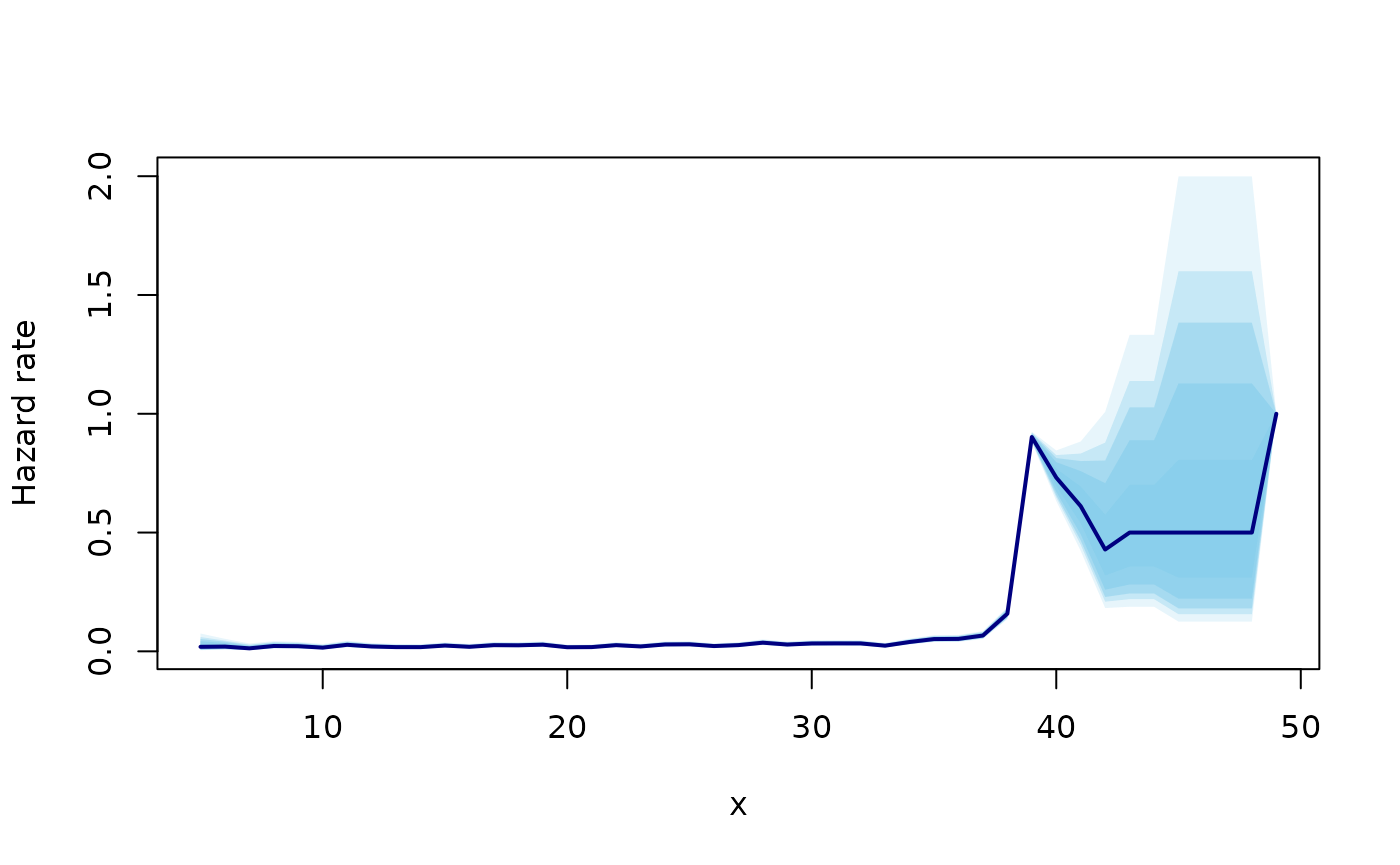
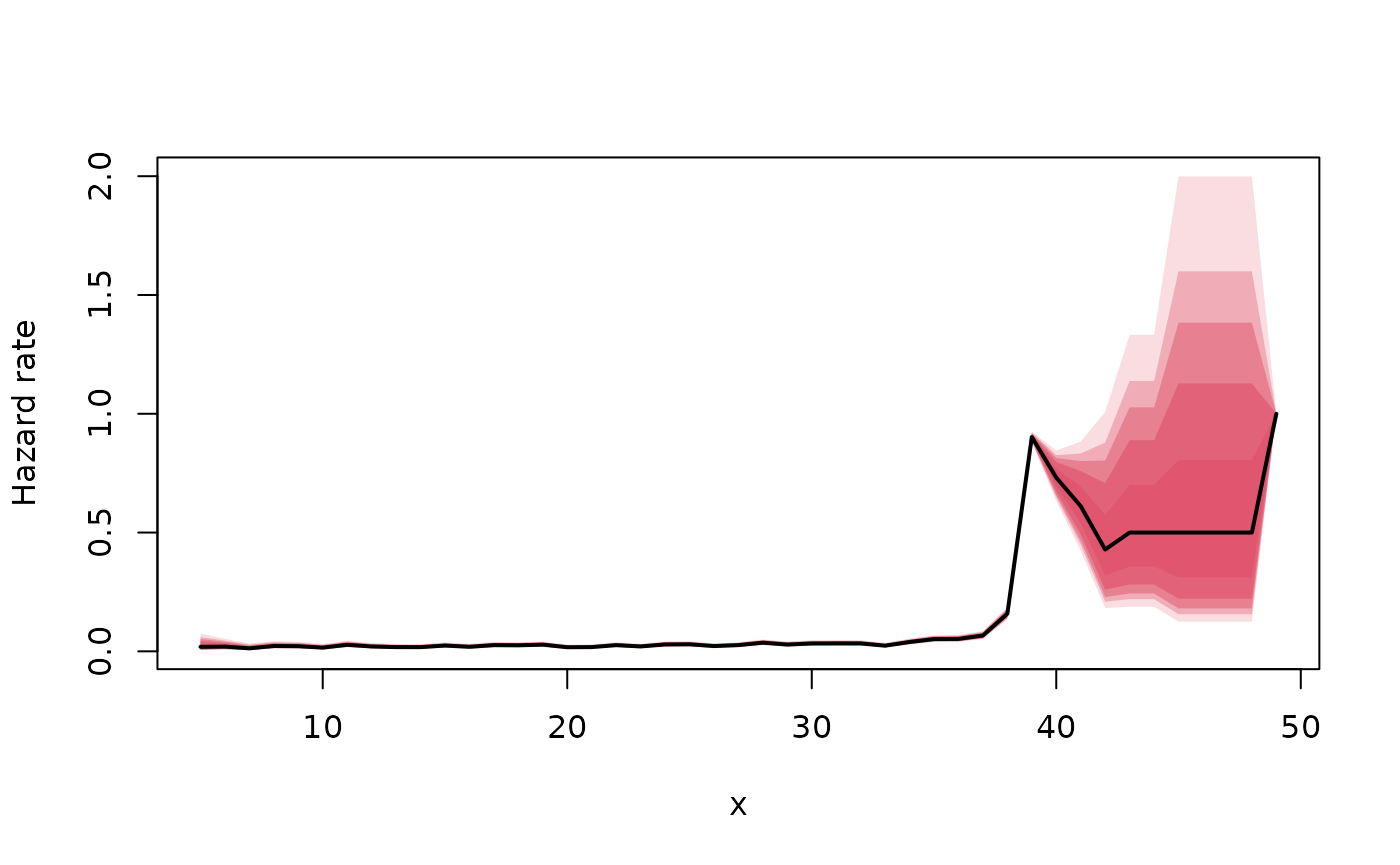
Deploying to gh-pages from @ lcgodoy/abslife@4cb8d97936ba4687f2455f60bfd2453b908d7cde 🚀

Changed region(s): [[0.7064, 0.1873, 0.9214, 0.7179], [0.1229, 0.7179, 0.7064, 0.7491]]

diff --git a/news/index.html b/news/index.html
@@ -43,7 +43,7 @@
 
     <div class="section level2">
 <h2 class="pkg-version" data-toc-text="0.0.95" id="abslife-0095">abslife 0.0.95<a class="anchor" aria-label="anchor" href="#abslife-0095"></a></h2>
-<ul><li><p>Now we have a <code>ci_level</code> parameter that allows plotting multiple confidence intervals at once.</p></li>
+<ul><li><p>Now we have a <code>ci_level</code> parameter that allows plotting multiple confidence intervals at once and changed default colors for plotting.</p></li>
 <li><p><code>calc_cdf</code> function also esimates the density (in addition to the CDF) and its output has been modified to a <code>data.frame</code> with the <code>lifetime</code> and the respective density and CDF evaluations.</p></li>
 <li><p><code>summary</code> and <code>plot</code> methods for the output of the <code>calc_cdf</code> function.</p></li>
 <li><p><span class="math inline">\(\hat{f}\)</span> is no longer part of the output</p></li>

diff --git a/news/index.md b/news/index.md
@@ -3,7 +3,7 @@
 ## abslife 0.0.95
 
 - Now we have a `ci_level` parameter that allows plotting multiple
-  confidence intervals at once.
+  confidence intervals at once and changed default colors for plotting.
 
 - `calc_cdf` function also esimates the density (in addition to the CDF)
   and its output has been modified to a `data.frame` with the `lifetime`
